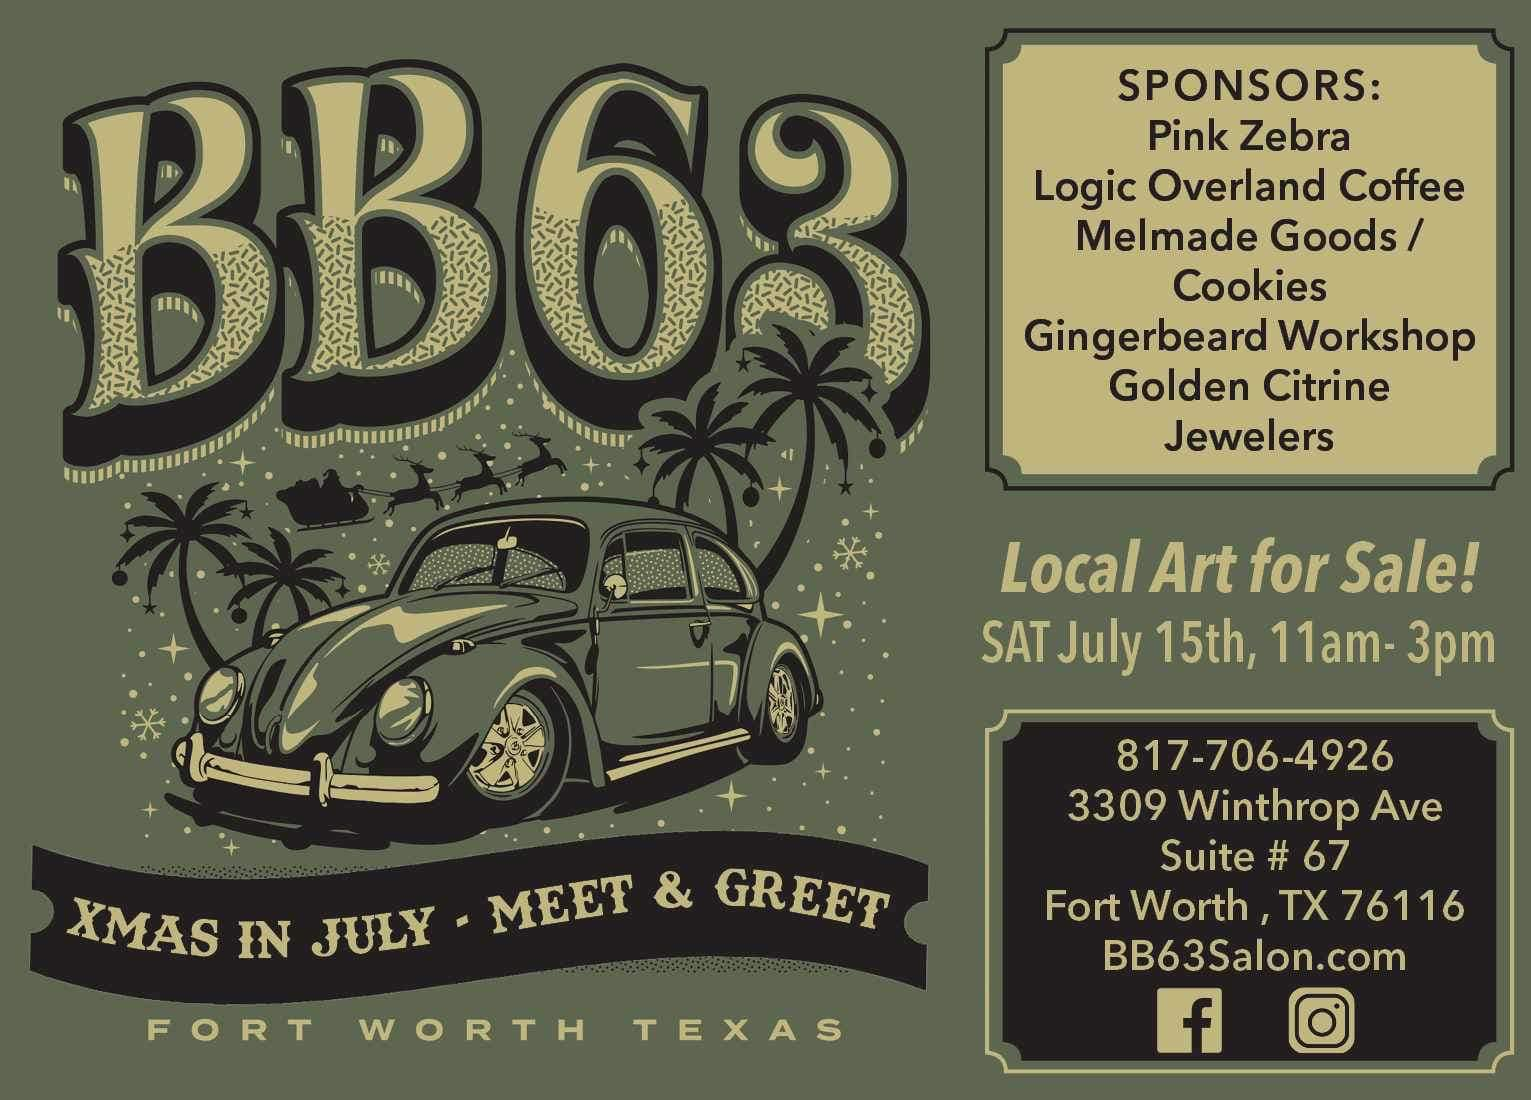
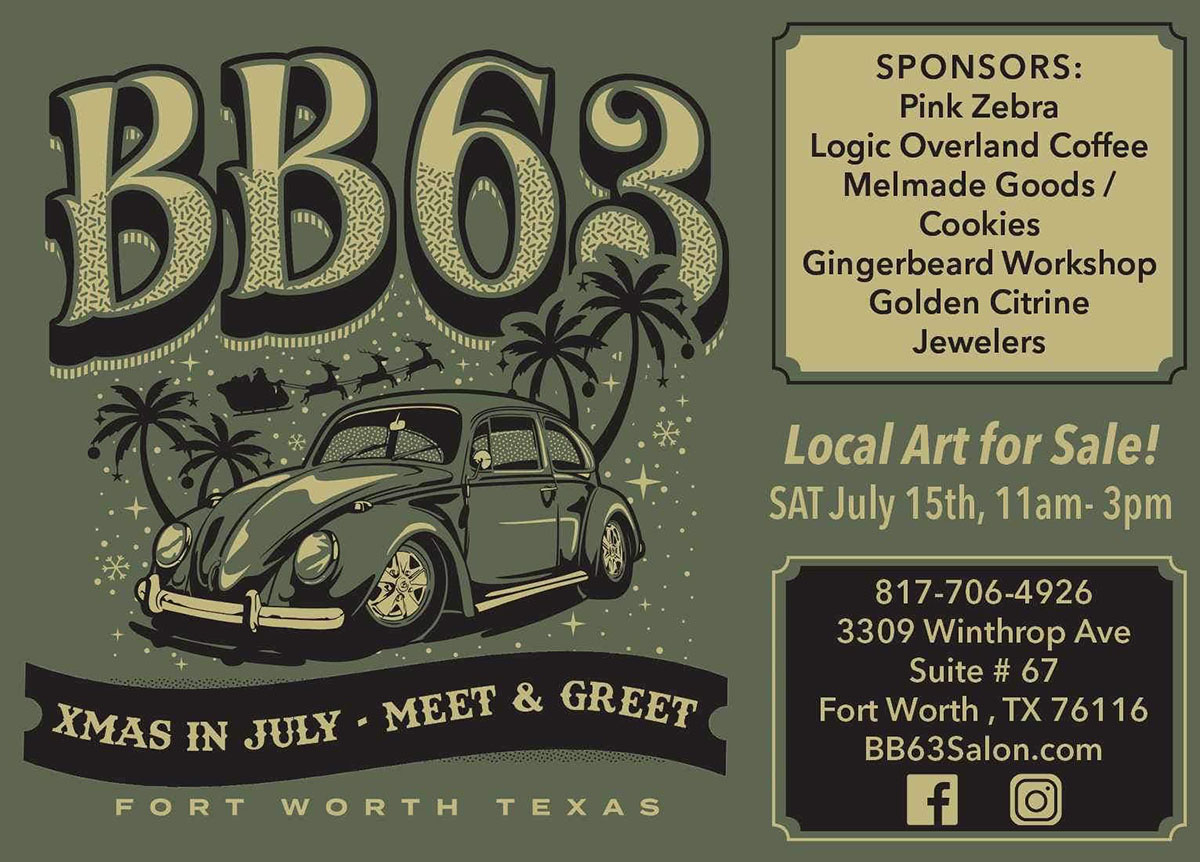
Updated modal image sizing to be more responsive

Changed region(s): [[0.3083, 0.6636, 0.3392, 0.7239]]

diff --git a/index.html b/index.html
@@ -36,8 +36,7 @@
   <div class="modal-content">
     <span class="close">&times;</span>
     <a href="https://www.facebook.com/events/205532999013082" target="_blank"><img src="images/christmas-july.jpg"
-                                                                              alt="Informative flyer for Christmas in July at BB 63 Salon. Saturday, July 15th, 2023, 11am - 3pm. 3309 Winthrop Ave, Suite #67, Fort Worth, Texas 76116."
-                                                                    class="container"></a>
+                                                                              alt="Informative flyer for Christmas in July at BB 63 Salon. Saturday, July 15th, 2023, 11am - 3pm. 3309 Winthrop Ave, Suite #67, Fort Worth, Texas 76116."></a>
   </div>
 </div>
 

diff --git a/css/styles.css b/css/styles.css
@@ -780,9 +780,11 @@ pre, blockquote, dl, figure, table, p, ul, ol, form {
 	padding: 20px;
 	border: 1px solid #888;
 	width: 80%;
+	max-width: 1200px;
 }
 .modal-content img {
-	width: 100%
+	max-width: 100%;
+	height: auto;
 }
 .close {
 	color: #aaa;
